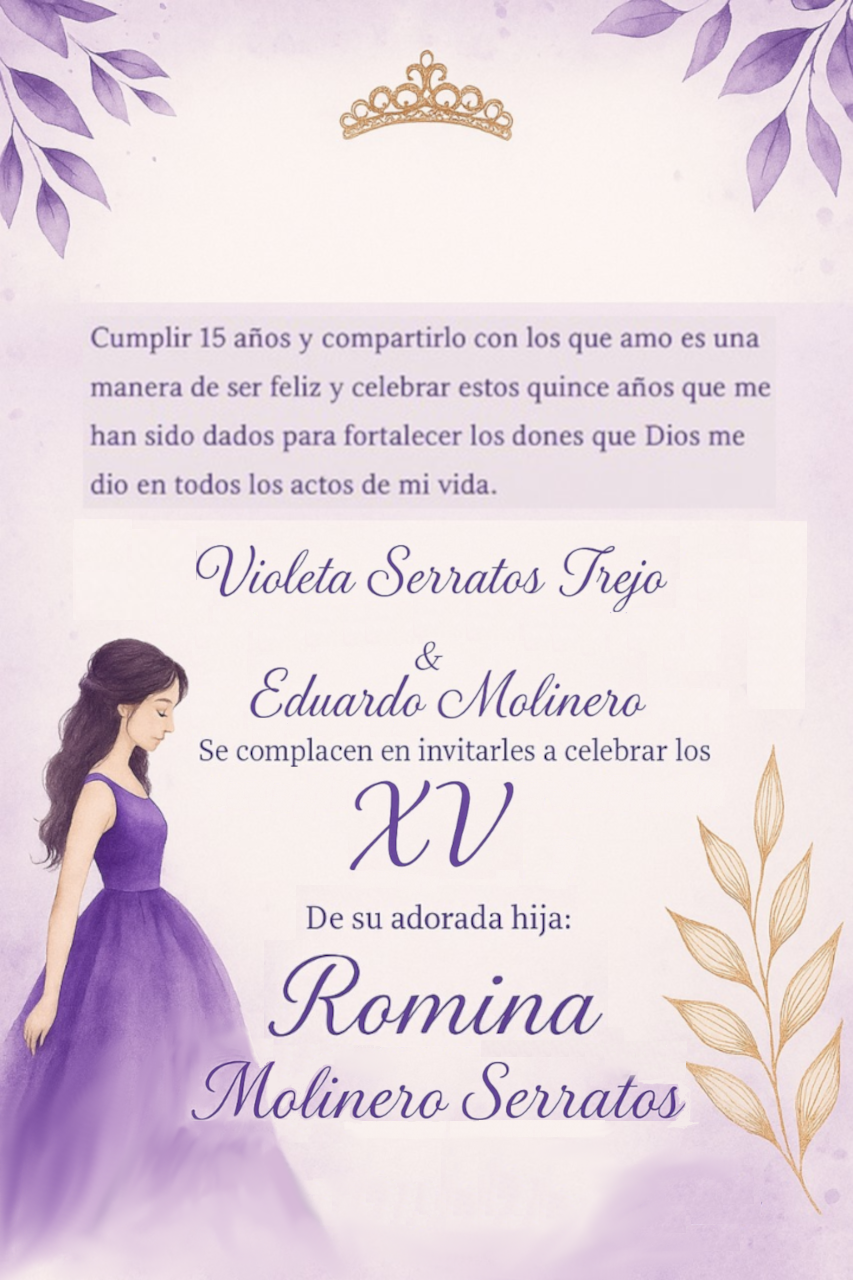
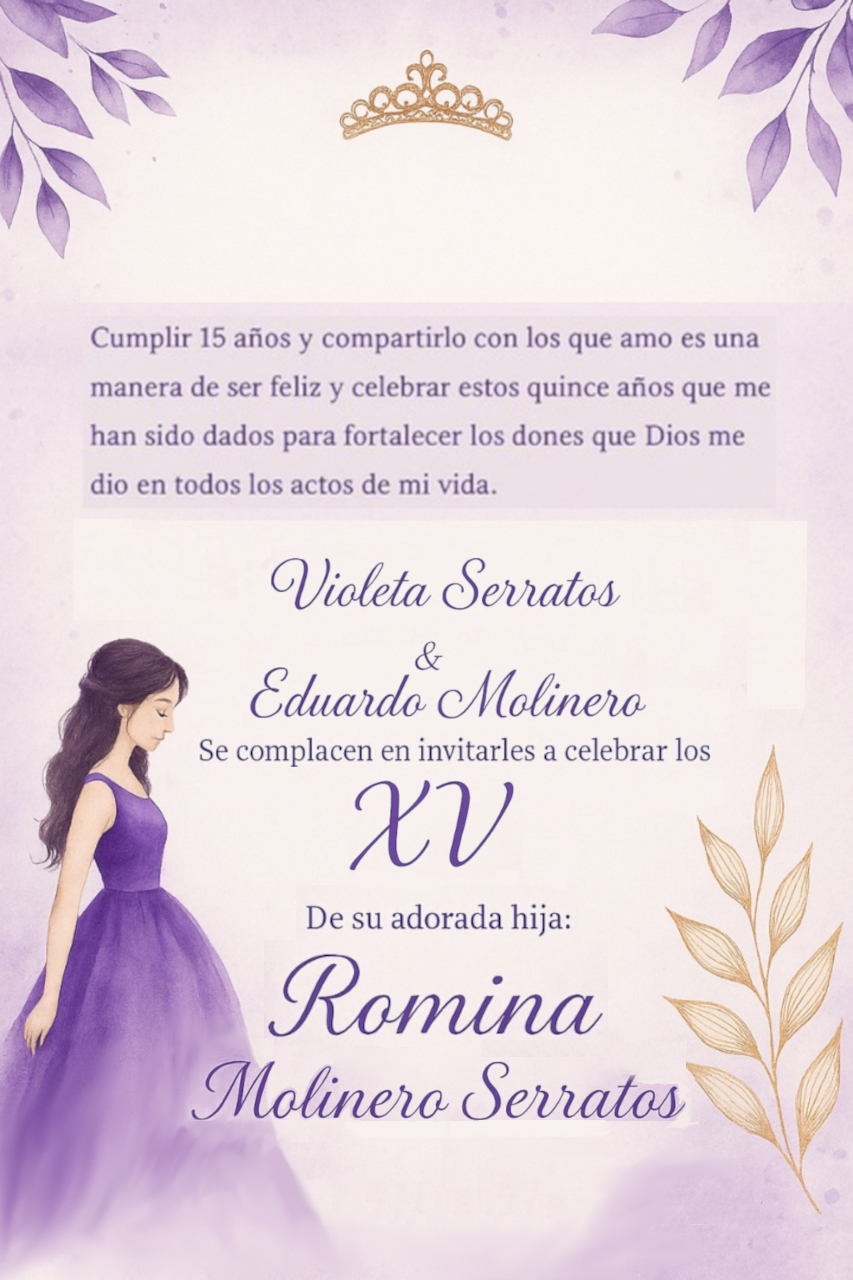
changes

Changed region(s): [[0.2438, 0.4062, 0.7925, 0.5]]

diff --git a/docs/index.html b/docs/index.html
@@ -57,7 +57,7 @@
             <div class="invitacion">
                 <div class="contenido">
                     <a
-                        href="https://maps.app.goo.gl/NX38TknnofLvXbgW9?g_st=aw"
+                        href="https://maps.app.goo.gl/FzDVC32G8CcSwdMZ7?g_st=aw"
                         target="_blank"
                         class="location-btn"
                     >
